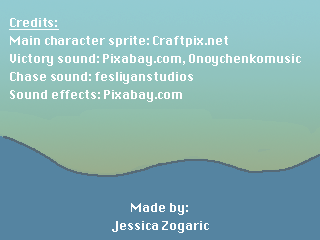
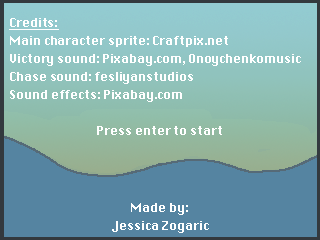
fixing scenes, input, music, etc

Changed region(s): [[0.0, 0.0, 1.0, 1.0], [0.2812, 0.525, 0.7188, 0.5833]]

diff --git a/src/scenes/Play.js b/src/scenes/Play.js
@@ -13,6 +13,7 @@ class Play extends Phaser.Scene {
         this.clouds = this.add.tileSprite(0, -49, 512, 256, 'Clouds').setOrigin(0, 0); //add clouds
         this.ground = this.add.tileSprite(0, 187, 512, 64, 'Ground').setOrigin(0, 0); //add ground
         this.bushes = this.add.tileSprite(0, 212, 512, 32, 'Bushes').setOrigin(0, 0); //add bushes
+        this.add.image(0, 0, 'border').setOrigin(0, 0,); //add foreground   
         //add collider to floor
         this.floor = this.physics.add.image(0, 193).setOrigin(0, 0);
         this.floor.displayHeight = 32;
@@ -20,7 +21,8 @@ class Play extends Phaser.Scene {
         this.floor.body.setAllowGravity(false);
         this.floor.setImmovable(true);
         //add rock weapon
-        this.rock = new Rock(this, 42, 177, 'Rock').setOrigin(0.0, 0);       
+        this.rock = new Rock(this, 42, 177, 'Rock').setOrigin(0.0, 0); 
+        this.rock.play('shift');      
         //add protagonist sprite
         this.protag = new Protag(this, 32, 170, 'protag').setOrigin(0, 0);
         this.protag.play('walkR');
@@ -39,12 +41,6 @@ class Play extends Phaser.Scene {
         this.birdHealth = 5;
         this.protag.body.setCollideWorldBounds(true);
 
-       // this.birdtwo = new Birds(this, game.config.width/1.1, game.config.height/9, 'Birds');
-        //this.birdtwo.play('fly');
-//this.birdtwo.body.setCollideWorldBounds(true);
-
-        //this.realbirdslist = [birds, birdtwo]
-        //configuration for the score text
         this.scoreConfig = {
             fontFamily: 'Helvetica',
             fontSize: '20px',
@@ -62,9 +58,11 @@ class Play extends Phaser.Scene {
             this.birds.y -= 60;
             this.cameras.main.shake(100, 0.009);
             this.protag.setAlpha(0.5);
+            this.rock.setAlpha(0.2);
             playerHealth -= 1;
             this.time.delayedCall(800, () => {
                 this.protag.setAlpha(1);
+                this.rock.setAlpha(1);
             });
             if (this.birds.body.touching.left == true){
                 this.birds.x += 60;

diff --git a/src/scenes/Credit.js b/src/scenes/Credit.js
@@ -1,19 +1,20 @@
-class Start extends Phaser.Scene {
+class Credit extends Phaser.Scene {
     constructor() {
-        super("startScene");
+        super("creditScene");
     }
 
     create() {
         //add camera
         this.cameras.main.fadeIn(1000);
-        this.add.image(0, 0, 'start-screen').setOrigin(0, 0,);
+        this.add.image(0, 0, 'credits-page').setOrigin(0, 0,);
         keyENTER = this.input.keyboard.addKey(Phaser.Input.Keyboard.KeyCodes.ENTER);
+        keyW = this.input.keyboard.addKey(Phaser.Input.Keyboard.KeyCodes.W);
       }
-
     update() {
         if (Phaser.Input.Keyboard.JustDown(keyENTER)) {
+            // this.scene.stop('finalScene');
             this.sound.play('selectNoise');
-            this.scene.start('creditScene');
+            this.scene.start('playScene');
           }
     }
 }

diff --git a/src/main.js b/src/main.js
@@ -9,14 +9,14 @@ let config = {
     antialias: false,
     width: 320,
     height: 240,
-    scene: [ Load, Menu, Start, Play, Fail, Final ], 
+    scene: [ Load, Menu, Start, Credit, Play, Fail, Final ], 
     render: {
       pixelArt: true
     },
     physics: {
       default: 'arcade',
       arcade: {
-          debug: true,
+          //debug: true,
           gravity: {
               x: 0,
               y: 100
@@ -28,7 +28,6 @@ let config = {
 
 let keyUP, keyENTER;
 let game = new Phaser.Game(config);
-
 let borderUISize = game.config.height / 15;
 let borderPadding = borderUISize / 3;
 let centerX = game.config.width/2;

diff --git a/src/scenes/Load.js b/src/scenes/Load.js
@@ -34,6 +34,9 @@ class Load extends Phaser.Scene {
         this.load.image('start-screen', 'img/start-screen.png');
         this.load.image('fail-screen', 'img/fail-screen.png');
         this.load.image('final-screen', 'img/final-screen.png');
+        this.load.image('credits-page', 'img/credits-page.png');
+        this.load.image('border', 'img/border.png');
+
         //load spritesheet
         this.load.spritesheet('protag', 'img/protag.png', {frameWidth: 24, frameHeight: 30, startFrame: 0, endFrame: 14});
         this.load.spritesheet('Birds', 'img/Birds.png', {frameWidth: 50, frameHeight: 28, startFrame: 0, endFrame: 1});

diff --git a/index.html b/index.html
@@ -19,6 +19,7 @@
     <script src="./src/scenes/Load.js"></script>
     <script src="./src/scenes/Menu.js"></script>
     <script src="./src/scenes/Start.js"></script>
+    <script src="./src/scenes/Credit.js"></script>
     <script src="./src/scenes/Play.js"></script>
     <script src="./src/scenes/Fail.js"></script>
     <script src="./src/scenes/Final.js"></script>

diff --git a/src/prefabs/Rock.js b/src/prefabs/Rock.js
@@ -7,6 +7,7 @@ class Rock extends Phaser.GameObjects.Sprite {
         this.body.setAllowGravity(false);
         this.movementSpeed = 2;
         this.cursors = scene.input.keyboard.createCursorKeys();
+        
         this.anims.create({
             key: 'shift',
             frameRate: 4,

diff --git a/src/prefabs/Birds.js b/src/prefabs/Birds.js
@@ -17,7 +17,6 @@ class Birds extends Phaser.GameObjects.Sprite{
         this.isAlive = true; // add the isAlive property and initialize it to true
         this.hp = 5; // add the health property
 
-
     }
     update() {
         //destroy birds if they go off screen
